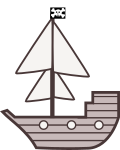
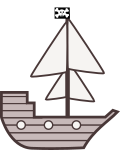
big enhancement of animations + beggining of new system of IA opponent & xp

Changed region(s): [[0.0, 0.0267, 1.0, 1.0]]

diff --git a/functions.js b/functions.js
@@ -1,6 +1,9 @@
-function moveDirection(direction)
+function moveDirection(direction, boat = null)
 {
-    const boat = document.querySelector('.boat');
+    if(boat == null)
+    {
+        boat = document.querySelector('#boat');
+    }
     boat.classList.remove('boat');
     switch (direction) {
         case "N":
@@ -8,7 +11,7 @@ function moveDirection(direction)
             {
                 localStorage.setItem('trycount', parseInt(localStorage.getItem('trycount'))+1);
                 localStorage.setItem('boatCordY', parseInt(localStorage.getItem('boatCordY'))-1);
-                boat.style = "animation-name:movingNorth;animation-duration: 3s;animation-fill-mode: forwards;filter: drop-shadow(3px 3px 5px var(--dark));";
+                boat.style = "animation-name:movingNorth;animation-duration: 2s;animation-fill-mode: forwards;filter: drop-shadow(3px 3px 5px var(--dark));";
             }
             else
             {
@@ -20,7 +23,7 @@ function moveDirection(direction)
             {
                 localStorage.setItem('trycount', parseInt(localStorage.getItem('trycount'))+1);
                 localStorage.setItem('boatCordY', parseInt(localStorage.getItem('boatCordY')) + 1);
-                boat.style = "animation-name:movingSouth;animation-duration: 3s;animation-fill-mode: forwards;filter: drop-shadow(3px 3px 5px var(--dark));";
+                boat.style = "animation-name:movingSouth;animation-duration: 2s;animation-fill-mode: forwards;filter: drop-shadow(3px 3px 5px var(--dark));";
             }
             else
             {
@@ -32,7 +35,7 @@ function moveDirection(direction)
             {
                 localStorage.setItem('trycount', parseInt(localStorage.getItem('trycount'))+1);
                 localStorage.setItem('boatCordX', parseInt(localStorage.getItem('boatCordX'))+1);
-                boat.style = "animation-name:movingEast;animation-duration: 3s;animation-fill-mode: forwards;filter: drop-shadow(3px 3px 5px var(--dark));";
+                boat.style = "animation-name:movingEast;animation-duration: 2s;animation-fill-mode: forwards;filter: drop-shadow(3px 3px 5px var(--dark));";
             }
             else
             {
@@ -44,7 +47,7 @@ function moveDirection(direction)
             {
                 localStorage.setItem('trycount', parseInt(localStorage.getItem('trycount'))+1);
                 localStorage.setItem('boatCordX', parseInt(localStorage.getItem('boatCordX')) - 1);
-                boat.style = "animation-name:movingWest;animation-duration: 3s;animation-fill-mode: forwards;filter: drop-shadow(3px 3px 5px var(--dark));";
+                boat.style = "animation-name:movingWest;animation-duration: 2s;animation-fill-mode: forwards;filter: drop-shadow(3px 3px 5px var(--dark));";
             }
             else
             {
@@ -65,7 +68,7 @@ function moveDirection(direction)
         // boat.style = "animation : 3s linear myBoat 0s infinite alternate;"
         boat.style = "";
         checkIfWon();
-    }, 3000);
+    }, 2000);
 }
 
 
@@ -73,7 +76,10 @@ function newGame()
 {
    for (key in localStorage) 
     {
-        localStorage.removeItem(key);
+        if(key != "playerXp")
+        {
+            localStorage.removeItem(key);
+        }
     }
     let minX = 3;
     let maxX = 9;
@@ -83,18 +89,42 @@ function newGame()
     let randomY = Math.floor(Math.random()*(maxY-minY+1)+minY);
     localStorage.setItem('boatCordX', 1);
     localStorage.setItem('boatCordY', 1);
+    localStorage.setItem('boat2CordX', 12);
+    localStorage.setItem('boat2CordY', 6);
     localStorage.setItem('trycount', 0);
     localStorage.setItem('treasureCordX', randomX);
     localStorage.setItem('treasureCordY', randomY);
     localStorage.setItem('displayType', "1");
     window.location.reload();
 }
-
+function gainXp()
+{
+    let xp = 0;
+    if(parseInt(localStorage.getItem('trycount')) <= 3)
+    {
+        xp = 250;
+    }
+    else if(parseInt(localStorage.getItem('trycount')) <= 6)
+    {
+        xp = 500;
+    }
+    else if(parseInt(localStorage.getItem('trycount')) <= 9)
+    {
+        xp = 750;
+    }
+    else if(parseInt(localStorage.getItem('trycount')) > 9)
+    {
+        xp = 1000;
+    }
+    return xp;
+}
 function checkIfWon()
 {
     if(localStorage.getItem('boatCordX') == localStorage.getItem('treasureCordX') && localStorage.getItem('boatCordY') == localStorage.getItem('treasureCordY'))
     {
-        alert('Treasure found in '+ localStorage.getItem('trycount')+" attempts");
+        let xp = gainXp();
+        localStorage.setItem('playerXp', parseInt(localStorage.getItem('playerXp')) + xp)
+        alert('Congrats !\nTreasure found in '+ localStorage.getItem('trycount')+" attempts.\n"+xp+" coins won !");
     }
 }
 

diff --git a/index.html b/index.html
@@ -67,7 +67,8 @@
             </div>
         </div>
     </div>
-    <img class="boat img-fluid" src="/images/boat.png" alt="Black Pearl" style="display: none;"/>
+    <img id = "boat" class="boat img-fluid" src="/images/boat.png" alt="Black Pearl" style="display: none;"/>
+    <img id = "boat2" class="boat img-fluid" src="/images/boat2.png" alt="Silent Mary" style="display: none;"/>
     <script src="https://code.jquery.com/jquery-3.3.1.slim.min.js"
             integrity="sha384-q8i/X+965DzO0rT7abK41JStQIAqVgRVzpbzo5smXKp4YfRvH+8abtTE1Pi6jizo"
             crossorigin="anonymous"></script>
@@ -77,27 +78,20 @@
     <script src="https://stackpath.bootstrapcdn.com/bootstrap/4.1.3/js/bootstrap.min.js"
             integrity="sha384-ChfqqxuZUCnJSK3+MXmPNIyE6ZbWh2IMqE241rYiqJxyMiZ6OW/JmZQ5stwEULTy"
             crossorigin="anonymous"></script>
-    <a href="https://www.freepik.com/free-photo/3d-grunge-room-interior-with-spotlight-smoky-atmosphere-background_6038271.htm#query=black%20smoke&position=2&from_view=keyword" style="font-size: 6px;color:white;">
+    <a href="https://www.freepik.com/free-photo/3d-grunge-room-interior-with-spotlight-smoky-atmosphere-background_6038271.htm#query=black%20smoke&position=2&from_view=keyword" style="font-size: 6px;color:white;position:fixed;bottom:0;">
         Background by kjpargeter
     </a>
 </body>
 </html>
 <script>
-    if(localStorage.getItem('boatCordX') == null || localStorage.getItem('boatCordX') == undefined)
+    if(
+        localStorage.getItem('boatCordX') == null || 
+        localStorage.getItem('boatCordY') == null ||
+        localStorage.getItem('boat2CordX') == null || 
+        localStorage.getItem('boat2CordY') == null
+        )
     {
-        localStorage.setItem('boatCordX', 1);
-    }
-    if(localStorage.getItem('boatCordY') == null || localStorage.getItem('boatCordY') == undefined)
-    {
-        localStorage.setItem('boatCordY', 1);
-    }
-    if(localStorage.getItem('treasureCordX') == null || localStorage.getItem('treasureCordX') == undefined)
-    {
-        localStorage.setItem('treasureCordX', Math.floor(Math.random() * 5)+1);
-    }
-    if(localStorage.getItem('treasureCordY') == null || localStorage.getItem('treasureCordY') == undefined)
-    {
-        localStorage.setItem('treasureCordY', Math.floor(Math.random() * 5)+1);
+        newGame();
     }
    
     console.log(localStorage.getItem('treasureCordX'))
@@ -117,10 +111,13 @@
 
     let boatx = localStorage.getItem('boatCordX');
     let boaty = localStorage.getItem('boatCordY');
+    let boat2x = localStorage.getItem('boat2CordX');
+    let boat2y = localStorage.getItem('boat2CordY');
     const column = document.querySelector('.row.column');
     const map = document.querySelector('.map');
     const tile = document.querySelector('.tile');
-    const boat = document.querySelector('.boat');
+    const boat = document.querySelector('#boat');
+    const boat2 = document.querySelector('#boat2');
     const manifest = document.querySelector('#manifest');
     if(!window.location.href.match(/C:/) && !window.location.href.match(/127/))
     {
@@ -142,6 +139,15 @@
                 if(!window.location.href.match(/C:/) && !window.location.href.match(/127/))
                 {
                     boat.src = '/treasurefind_js/images/boat.png';
+                }
+            }
+            if(boat2x == x && boat2y == y)
+            {
+                tileClone.appendChild(boat2);
+                boat2.style.display = "block";
+                if(!window.location.href.match(/C:/) && !window.location.href.match(/127/))
+                {
+                    boat2.src = '/treasurefind_js/images/boat2.png';
                 }
             }
             tileClone.classList.add(localStorage.getItem(y+'-'+x))

diff --git a/map.css b/map.css
@@ -98,6 +98,18 @@
 
 @keyframes myBoat {
     0% {
+        transform: rotate(5deg)
+        translate(0 px, 0 px);
+    }
+    50% {
+        transform: translate(5px, 5px);
+    }
+    100% {
+        transform: rotate(-5deg) translate(0px, 0px);
+    }
+}
+@keyframes myBoat2 {
+    0% {
         transform: rotate(-5deg)
         translate(0 px, 0 px);
     }
@@ -111,44 +123,64 @@
 
 @keyframes movingEast {
    
-   0%{
-        transform: translateX(0);
-   }
+    0% {
+        transform: rotate(5deg)
+        translate(0 px, 0 px);
+    }
+    50% {
+        transform:  rotate(5deg) translate(60%, 5px);
+    }
    100% {
-        transform: translateX(120%);
+        transform:rotate(-5deg) translateX(120%)
+        ;
    }
 }
 @keyframes movingWest {
    
     0%{
-        transform: translateX(0);
+        transform: scaleX(-1) translateX(0) rotate(5deg);
+    }
+    50% {
+        transform: scaleX(-1)  rotate(5deg) translate(60%, 5px);
     }
     100% {
-        transform: translateX(-120%);
+        transform: scaleX(-1) translateX(120%) rotate(-5deg);
     }
 }
 @keyframes movingNorth {
    
     0%{
-        transform: translateY(0);
+        transform: translate(0,0) rotate(0);
+    }
+    10% {
+        transform:translate(0,0) rotateZ(-68deg) rotateX(60deg);
     }
     100% {
-        transform: translateY(-98%);
+        transform: translateY(-80%) rotateZ(-68deg) rotateX(60deg);
     }
 }
 @keyframes movingSouth {
    
     0%{
-        transform: translateY(0);
+        transform: translate(0,0) rotate(0);
+    }
+    10% {
+        transform:translate(0,0) rotateZ(70deg) rotateX(60deg);
     }
     100% {
-        transform: translateY(98%);
+        transform:translate(10px, 80%) rotateZ(70deg) rotateX(60deg);
     }
 }
 
 .boat {
-    animation: 3s linear myBoat 0s infinite alternate;
     filter: drop-shadow(3px 3px 5px var(--dark));
+}
+#boat {
+    animation: 3s linear myBoat 0s infinite alternate;
+    
+}
+#boat2 {
+    animation: 3s linear myBoat 0s infinite alternate;
 }
 
 .map {
@@ -174,6 +206,10 @@
     font-family: var(--main-font);
     color: white!important;
     font-size: 30px;
+}
+
+.nav-item {
+    cursor:pointer;
 }
 
 .navigation a:hover {
